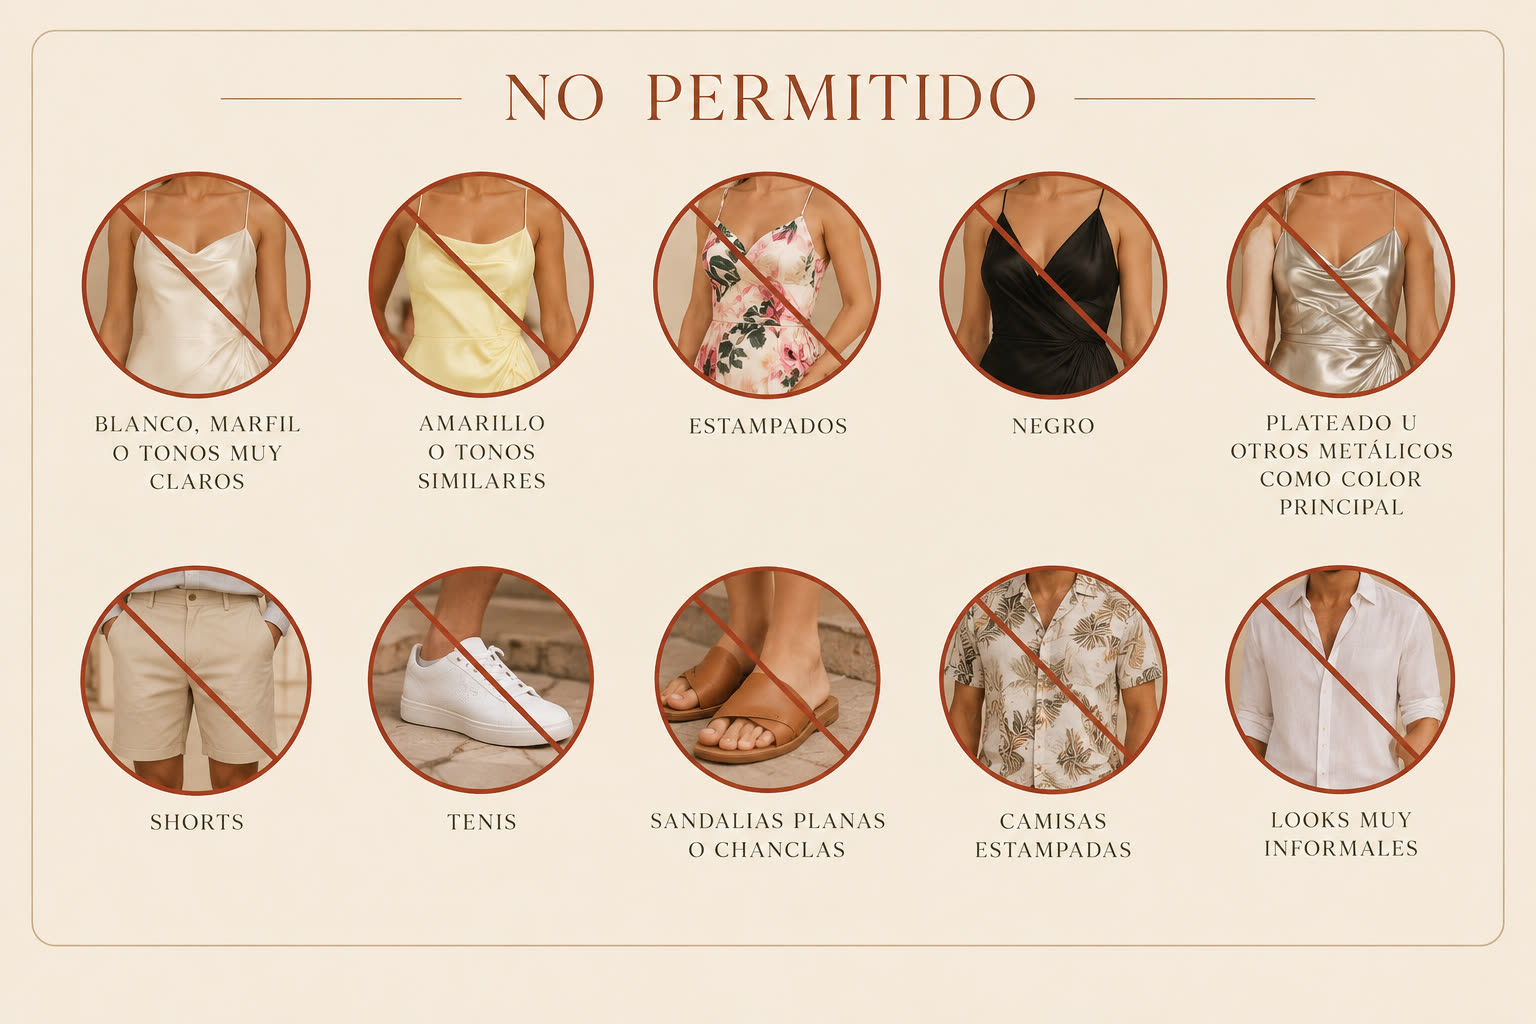
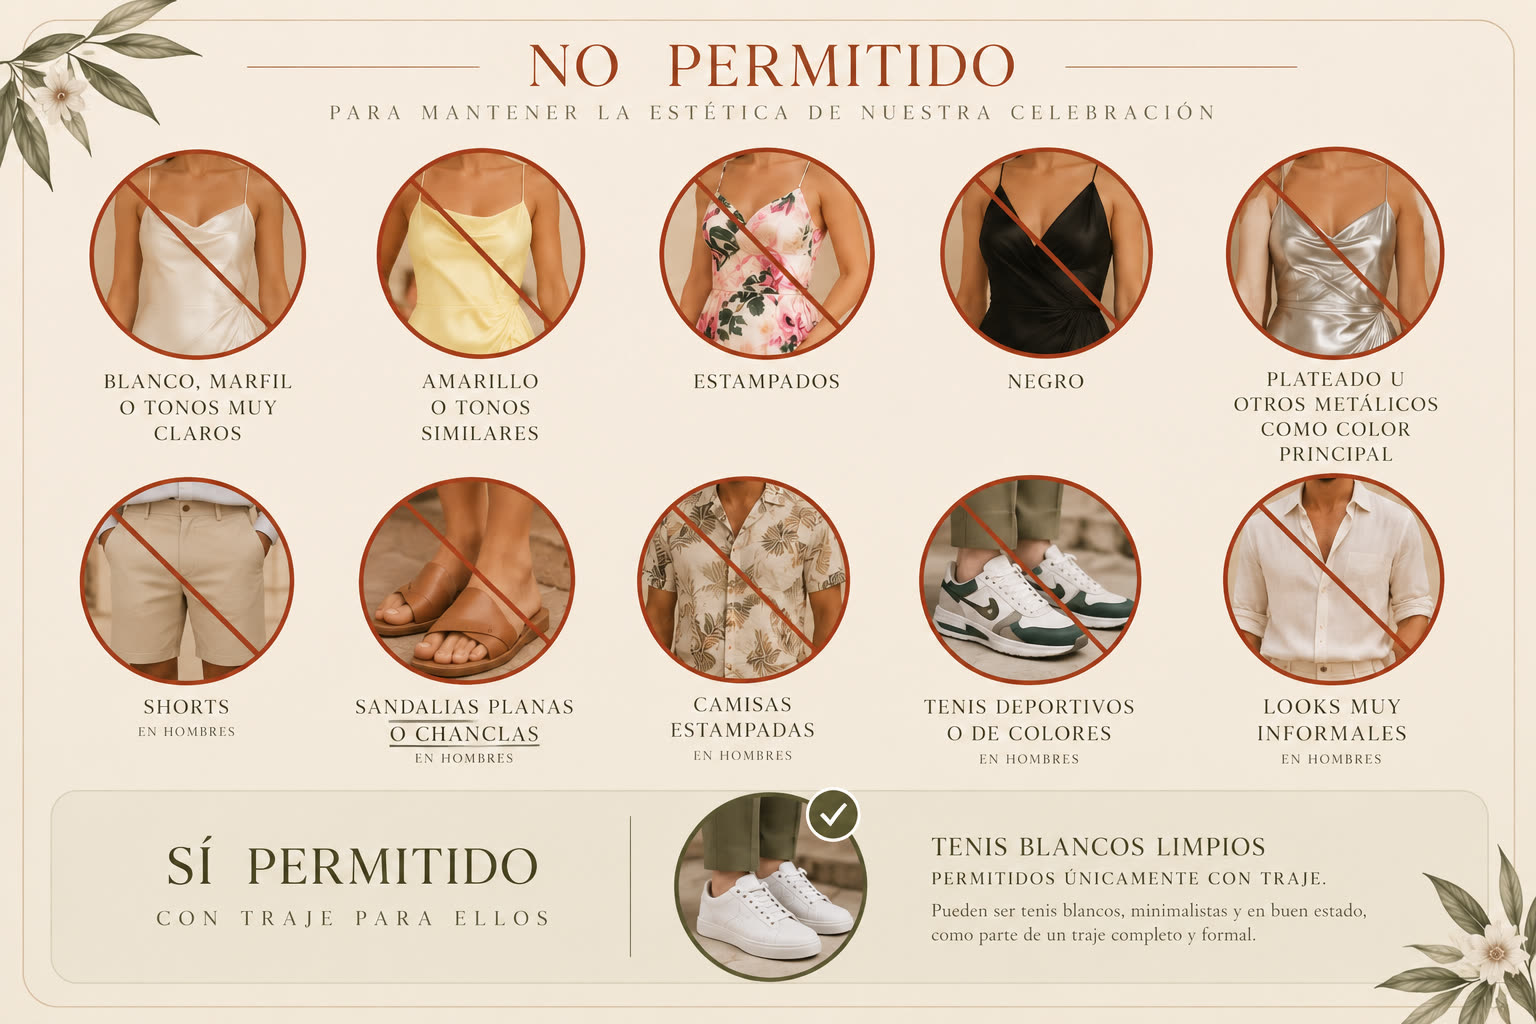
Dress code: nueva imagen de 'No permitido' y textos alineados
- Shorts, sandalias o chanclas, camisas estampadas y looks informales:
  en hombres; tenis prohibidos solo si son deportivos o de colores
- Sí permitido: tenis blancos, limpios y minimalistas con traje completo
  (en 'Eviten' y en 'Para ellos')

diff --git a/index.html b/index.html
@@ -432,6 +432,7 @@
   .paleta-evitar li, .paleta-si { display: flex; gap: 10px; font-size: 14px; line-height: 1.5; color: rgba(248, 245, 238, .92); }
   .paleta-evitar li span { flex: 0 0 auto; color: var(--durazno); font-weight: 600; }
   .paleta-si { margin: 14px 0 0; padding-top: 12px; border-top: 1px solid rgba(248, 245, 238, .18); }
+  .paleta-si-2 { margin-top: 6px; padding-top: 0; border-top: 0; }
   .paleta-si span { flex: 0 0 auto; color: #B8C79A; font-weight: 700; }
 
   /* ---------- Viaje & Hospedaje ---------- */
@@ -1025,23 +1026,25 @@
         <li><span aria-hidden="true">🤵</span>Traje en los tonos de la paleta.</li>
         <li><span aria-hidden="true">👔</span>Camisa blanca permitida, o en los tonos de la paleta.</li>
         <li><span aria-hidden="true">👞</span>Zapatos formales: mocasines, derby u oxford, en cuero o gamuza.</li>
+        <li><span aria-hidden="true">👟</span>También se permiten tenis blancos, limpios y minimalistas, solo con traje completo.</li>
         <li><span aria-hidden="true">🧣</span>Detalles que suman: pañuelo, correa y accesorios en tonos tierra o metálicos.</li>
       </ul>
     </div>
 
     <div class="dress-panel" role="tabpanel" id="panel-evitar" aria-labelledby="tab-evitar" hidden>
-      <a class="dress-img" href="img/dresscode-evitar.jpg" target="_blank" rel="noopener"><img src="img/dresscode-evitar.jpg" alt="Lo que no está permitido: blanco o tonos muy claros, amarillo, estampados, negro, metálicos, shorts, tenis, sandalias planas, camisas estampadas y looks muy informales" width="1536" height="1024" loading="lazy"><span>Toca para ver en grande 🔍</span></a>
+      <a class="dress-img" href="img/dresscode-evitar.jpg" target="_blank" rel="noopener"><img src="img/dresscode-evitar.jpg" alt="Lo que no está permitido: blanco o tonos muy claros, amarillo, estampados, negro y metálicos; en hombres, shorts, sandalias o chanclas, camisas estampadas, tenis deportivos o de colores y looks muy informales. Sí permitido: tenis blancos limpios con traje" width="1536" height="1024" loading="lazy"><span>Toca para ver en grande 🔍</span></a>
       <div class="paleta-evitar">
         <ul>
           <li><span aria-hidden="true">✕</span>Blanco y tonos muy claros: marfil, hueso, champagne, beige claro, arena o lino claro</li>
           <li><span aria-hidden="true">✕</span>Amarillo pálido o mantequilla</li>
           <li><span aria-hidden="true">✕</span>Negro (también trajes negros) y colores neón</li>
-          <li><span aria-hidden="true">✕</span>Estampados, en vestidos y camisas</li>
+          <li><span aria-hidden="true">✕</span>Estampados</li>
           <li><span aria-hidden="true">✕</span>Prendas plateadas, metálicas o muy brillantes como color principal</li>
-          <li><span aria-hidden="true">✕</span>Shorts, tenis, sandalias planas o chanclas, y looks muy informales</li>
+          <li><span aria-hidden="true">✕</span>Ellos: shorts, sandalias o chanclas, camisas estampadas, tenis deportivos o de colores, y looks muy informales</li>
           <li><span aria-hidden="true">✕</span>Vino y borgoña: los reservamos para nuestras damas y caballeros de honor 💕</li>
         </ul>
         <p class="paleta-si"><span aria-hidden="true">✓</span>Accesorios dorados o plateados: ¡son bienvenidos! ✨</p>
+        <p class="paleta-si paleta-si-2"><span aria-hidden="true">✓</span>Ellos: tenis blancos, limpios y minimalistas, solo como parte de un traje completo 👟</p>
       </div>
     </div>
   </div>
